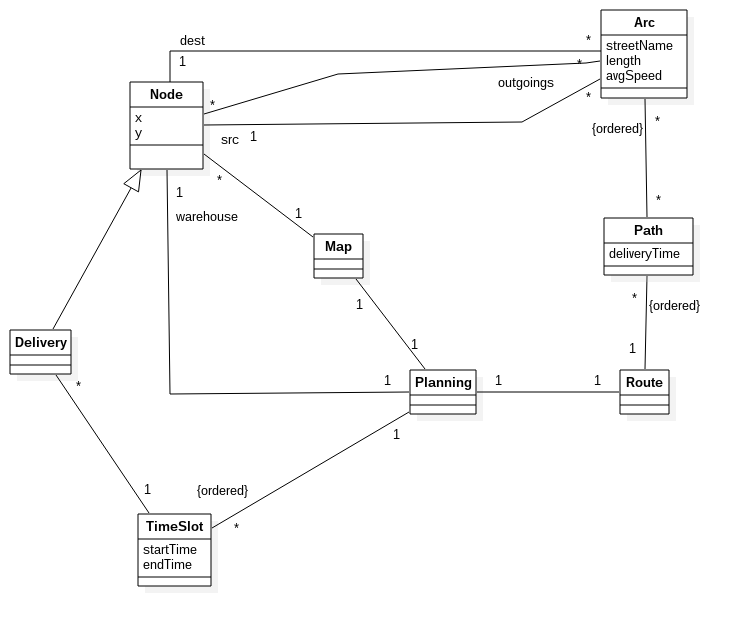
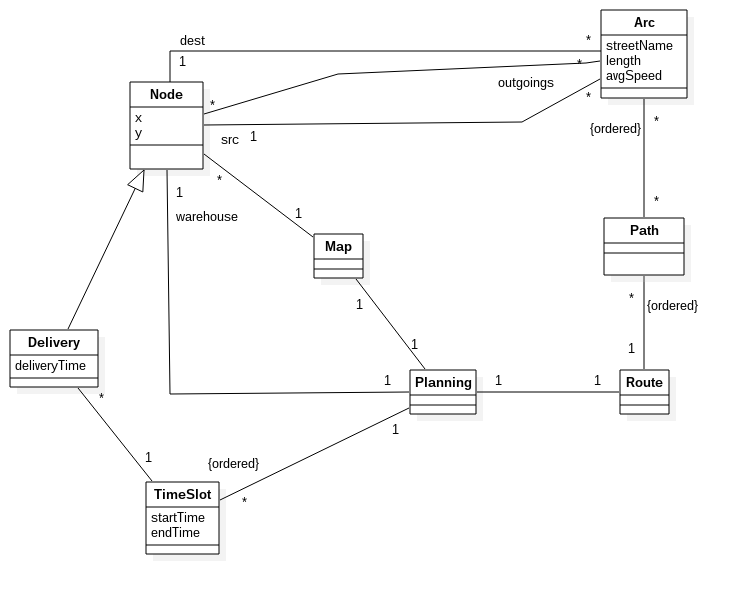
Ajout commentaire modèle du domaine + modification marges

diff --git a/docs/report/rapport.tex b/docs/report/rapport.tex
@@ -13,9 +13,9 @@
 \usepackage{todonotes}
 \usepackage[a4paper, 
 			body={16cm,23cm},
-			lmargin=1cm,
-			rmargin=1cm,
-			tmargin=1cm,
+			lmargin=1.5cm,
+			rmargin=1.5cm,
+			tmargin=1.5cm,
 			bmargin=1.5cm]{geometry}
 \usepackage{float}
 \usepackage{framed}
@@ -97,19 +97,15 @@
 \section{Présentation du contenu du rapport}
 \label{sec:presentation-du-contenu-du-rapport}
 
-Ce document constitue la synthèse de l'ensemble des livrables devant être remis à la fin du projet Développement Orienté Objet effectué en 4IF. Il a été convenu avec les professeurs encadrant le projet que le code pouvait être réalisé en langue anglaise mais que ceci impliquait également le rendu de certains livrables en Anglais. Les livrables devant être rendu en Anglais ont été identifiés avec les professeurs lors de la première séance de TP. Il sera donc indiqué dans le titre de chaque partie si le contenu de la partie est rédigé en Anglais \it{(EN)} ou en Français \it{(FR)}.  
+Ce document constitue la synthèse de l'ensemble des livrables devant être remis à la fin du projet Développement Orienté Objet effectué en 4IF. Il a été convenu avec les professeurs encadrant le projet que le code pouvait être réalisé en langue anglaise mais que ceci impliquait également le rendu de certains livrables en Anglais. Les livrables devant être rendu en Anglais ont été identifiés avec les professeurs lors de la première séance de TP. Il sera donc indiqué dans le titre de chaque partie si le contenu de la partie est rédigé en Anglais \it{(EN)} ou en Français \it{(FR)}.  \\
 
-\newpage
+Ci-dessous, deux captures d'écran du logiciel réalisé :
 
-Voici deux captures d'écran du logiciel réalisé.
-
-\begin{figure}[hbtp]
+\begin{figure}[H]
 \centering
 \noindent\makebox[\textwidth]{\includegraphics[width=\textwidth]{figures/screenshot.png}}
-
 \noindent\makebox[\textwidth]{\includegraphics[width=\textwidth]{figures/screenshot-1.png}}
 \caption{Captures d'écran du logiciel}
-
 \end{figure}
 
 
@@ -225,7 +221,11 @@ Un certain nombre de tâches supplémentaires sont arrivé ensuite ainsi qu'un r
 \section{Domain model \it{(EN)}}
 \label{sec:domain-model}
 
-\Todo{We should add a comment here}
+This application has two main entry points that are the Map and Planning classes. The first one is used to represent the streets (directed arcs) and intersections (nodes) of a city, using a graph design. The class Planning represents the set of deliveries that must be done at some locations, in particular time slots. Those data are represented through the TimeSlot and Delivery classes.\\
+
+The Route class represents the best known solution to do all the delivery points contained in the Planning object, thanks to an ordered collection of Path. A Path is itself an ordered collection of arcs to use to go from a node with a delivery (or a warehouse) to another node with a delivery (or a warehouse).\\
+
+The delivery time attribute in the Delivery class is rather important because it's the time that is affected to a delivery when a route is computed.
 
 \begin{figure}[H]
 \centering
@@ -565,7 +565,7 @@ After computing the route, at any moment the user can:
 \subsection{Model related diagrams}
 \label{subsec:model-related-diagrams}
 
-The following figure shows classes which are part of the model package. These classes implements the Domain Model and others objects needed to properly use design patterns. All methods are not shown, especially getters and setters. Further information are available in III.3 section.
+The following figure shows classes which are part of the model package. These classes implements the Domain Model and others objects needed to properly use design patterns. All methods are not shown, especially getters and setters. Further information are available in III.3 section.\\
 
 \vspace*{-6.5cm}
 \begin{figure}[H]
